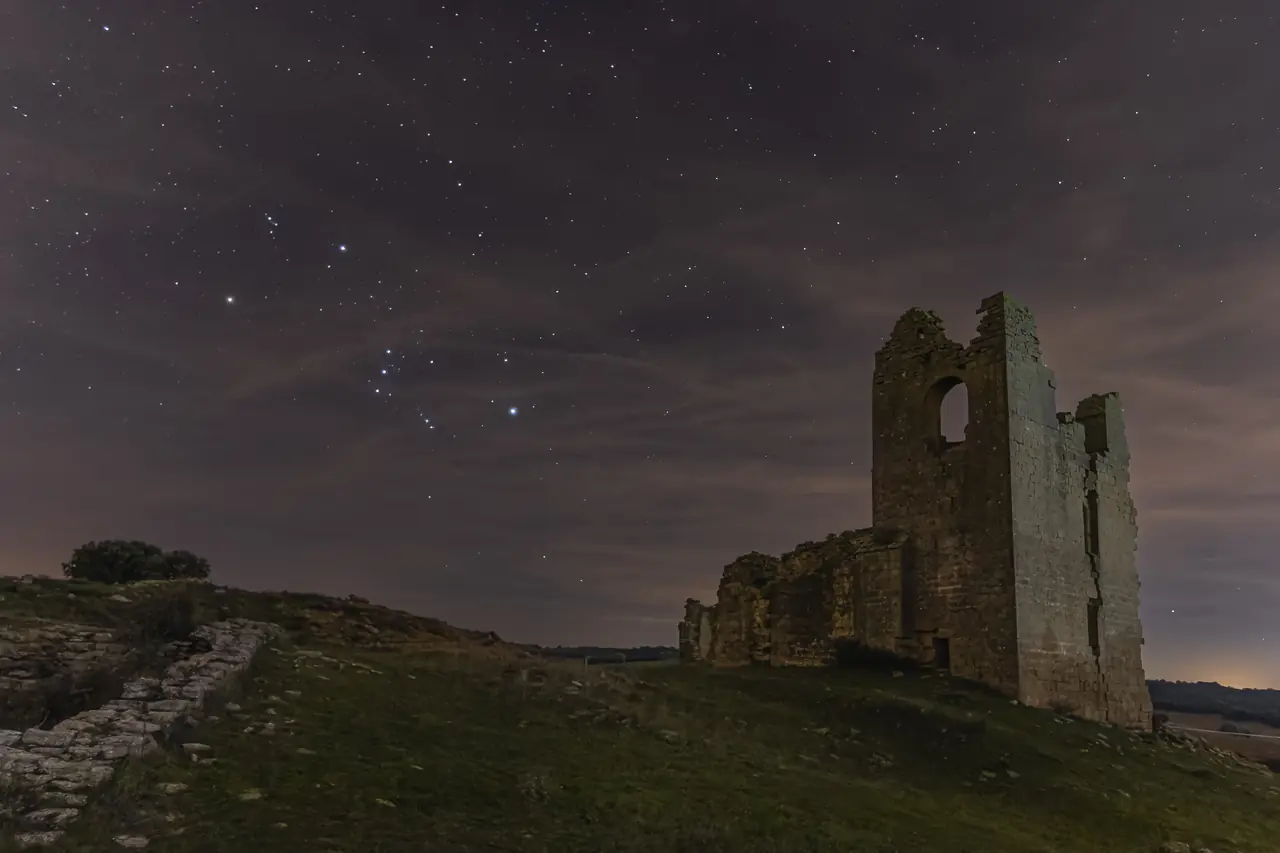
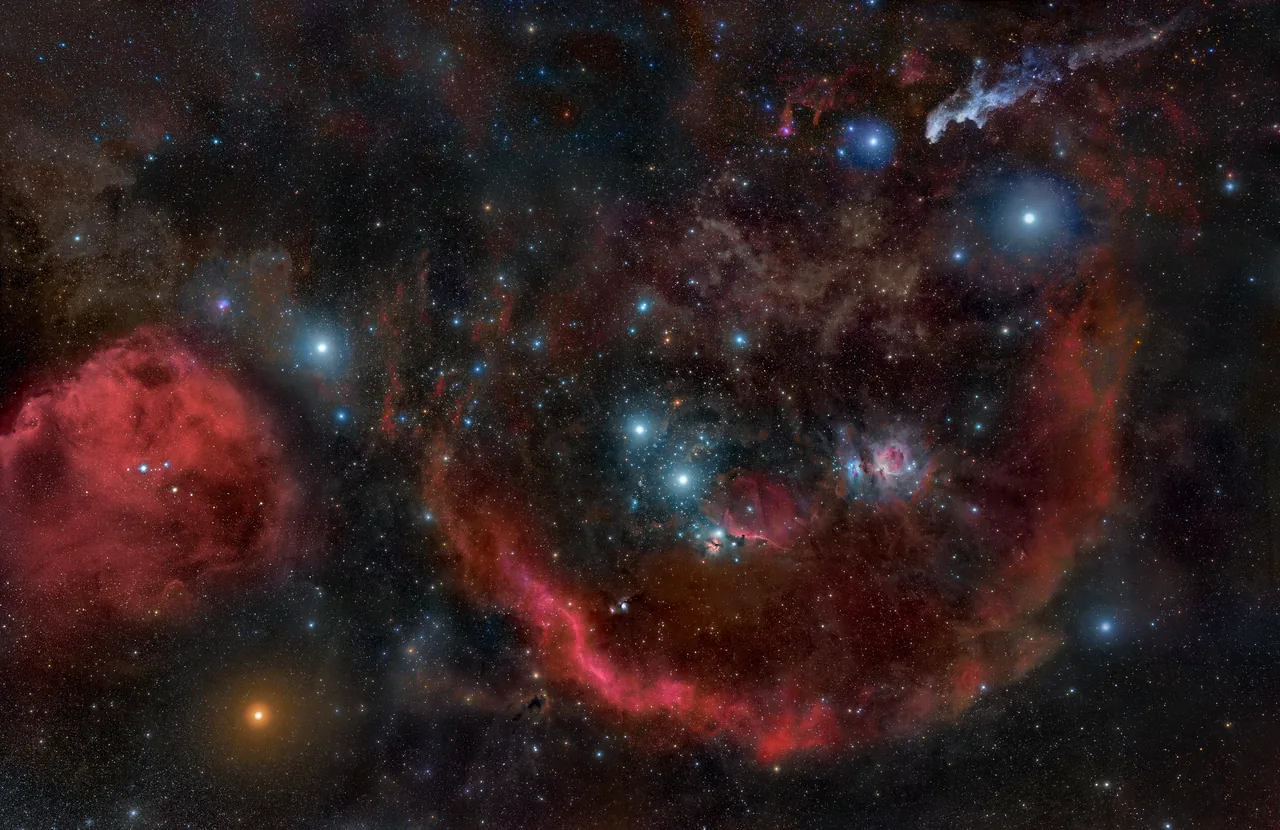
Home hero: Orion head to toe instead of the castle
Rogelio Bernal Andreo's deep Orion (CC BY-SA 3.0): on wide screens turned
a quarter, north to the left, the way it rises in the east; upright on
phones. Barnard's Loop, the Orion Nebula and the Horsehead fill the first
screen. The night section's label now says on the roof.

Claude-Session: https://claude.ai/code/session_012iKYDmqHTCX51NRM8ad2ZD

diff --git a/src/components/skychaser/home/EditorialHome.tsx b/src/components/skychaser/home/EditorialHome.tsx
@@ -437,15 +437,19 @@ export default function EditorialHome({ fontClass, setSize, fromPrice, feature, 
         <section className="hero" aria-label="How light becomes a card">
           <div className="bgs">
             <div className="bg">
-              <img
-                className="kb"
-                src="/home/orion-1280.webp"
-                srcSet="/home/orion-1280.webp 1280w, /home/orion-2200.webp 2200w"
-                sizes="100vw"
-                alt="Orion rising over a ruined castle at night"
-                fetchPriority="high"
-                decoding="async"
-              />
+              {/* Wide screens: turned a quarter, north to the left, the way Orion rises in the east. */}
+              <picture>
+                <source media="(max-width: 820px)" srcSet="/home/orion-tall-900.webp 900w, /home/orion-tall-1400.webp 1400w" sizes="100vw" />
+                <img
+                  className="kb"
+                  src="/home/orion-1280.webp"
+                  srcSet="/home/orion-1280.webp 1280w, /home/orion-2200.webp 2200w"
+                  sizes="100vw"
+                  alt="Orion in a deep exposure: Barnard's Loop, the Orion Nebula, the Horsehead, red Betelgeuse"
+                  fetchPriority="high"
+                  decoding="async"
+                />
+              </picture>
             </div>
             <div className="bg raw">
               <img
@@ -632,7 +636,7 @@ export default function EditorialHome({ fontClass, setSize, fromPrice, feature, 
         </section>
 
         {/* ── One night at the telescope ──────────────────── */}
-        <section className="night" id="night" aria-label="One night at the observatory">
+        <section className="night" id="night" aria-label="One night on the roof">
           <canvas ref={skyCanvas} className="sky" role="img" aria-label="The sky over Tbilisi on the night of 14 November, hour by hour, with the telescope's target marked" />
           <div className="shade" />
           <div className="head">
@@ -883,7 +887,7 @@ export default function EditorialHome({ fontClass, setSize, fromPrice, feature, 
           <div className="legal">
             <span>© 2026 Skychaser · Tbilisi</span>
             <span className="credits">
-              Orion over a ruined castle: Carlos Zudaire/IAU OAE, CC BY 4.0 · Night sky: Hipparcos stars and IAU figures via d3-celestial (BSD), positions by astronomy-engine · Orion Nebula,
+              Orion, head to toe: Rogelio Bernal Andreo, CC BY-SA 3.0, turned and darkened · Night sky: Hipparcos stars and IAU figures via d3-celestial (BSD), positions by astronomy-engine · Orion Nebula,
               Pillars of Creation: NASA, ESA, Hubble · The Moon: NASA/GSFC/Arizona State University · The raw frame and the capsule scene are illustrations.
             </span>
             <nav aria-label="Legal">

diff --git a/src/styles/skychaser-editorial.css b/src/styles/skychaser-editorial.css
@@ -310,7 +310,7 @@ html.lenis, html.lenis body { height: auto; }
   .ed .hero .steps { width: 100%; height: calc(min(64px, 14.5vw) * 1.84 + 200px); }
   .ed .hero .ln p { font-size: 15px; margin-top: 14px; }
   .ed .hero .meta { display: none; }
-  .ed .hero .bg:first-child > img { object-position: 30% 50%; } /* keep Orion, not the empty sky, in a tall crop */
+  .ed .hero .bg:first-child img { object-position: 42% 40%; }
   .ed .hero .shade { background: linear-gradient(to top, rgba(5, 6, 10, 0.95) 0%, rgba(5, 6, 10, 0.4) 45%, rgba(5, 6, 10, 0) 65%), linear-gradient(to bottom, rgba(5, 6, 10, 0.6), rgba(5, 6, 10, 0) 18%); }
   .ed .hero .copy { bottom: 28px; }
   .ed .hero .cta { margin-top: 20px; }
